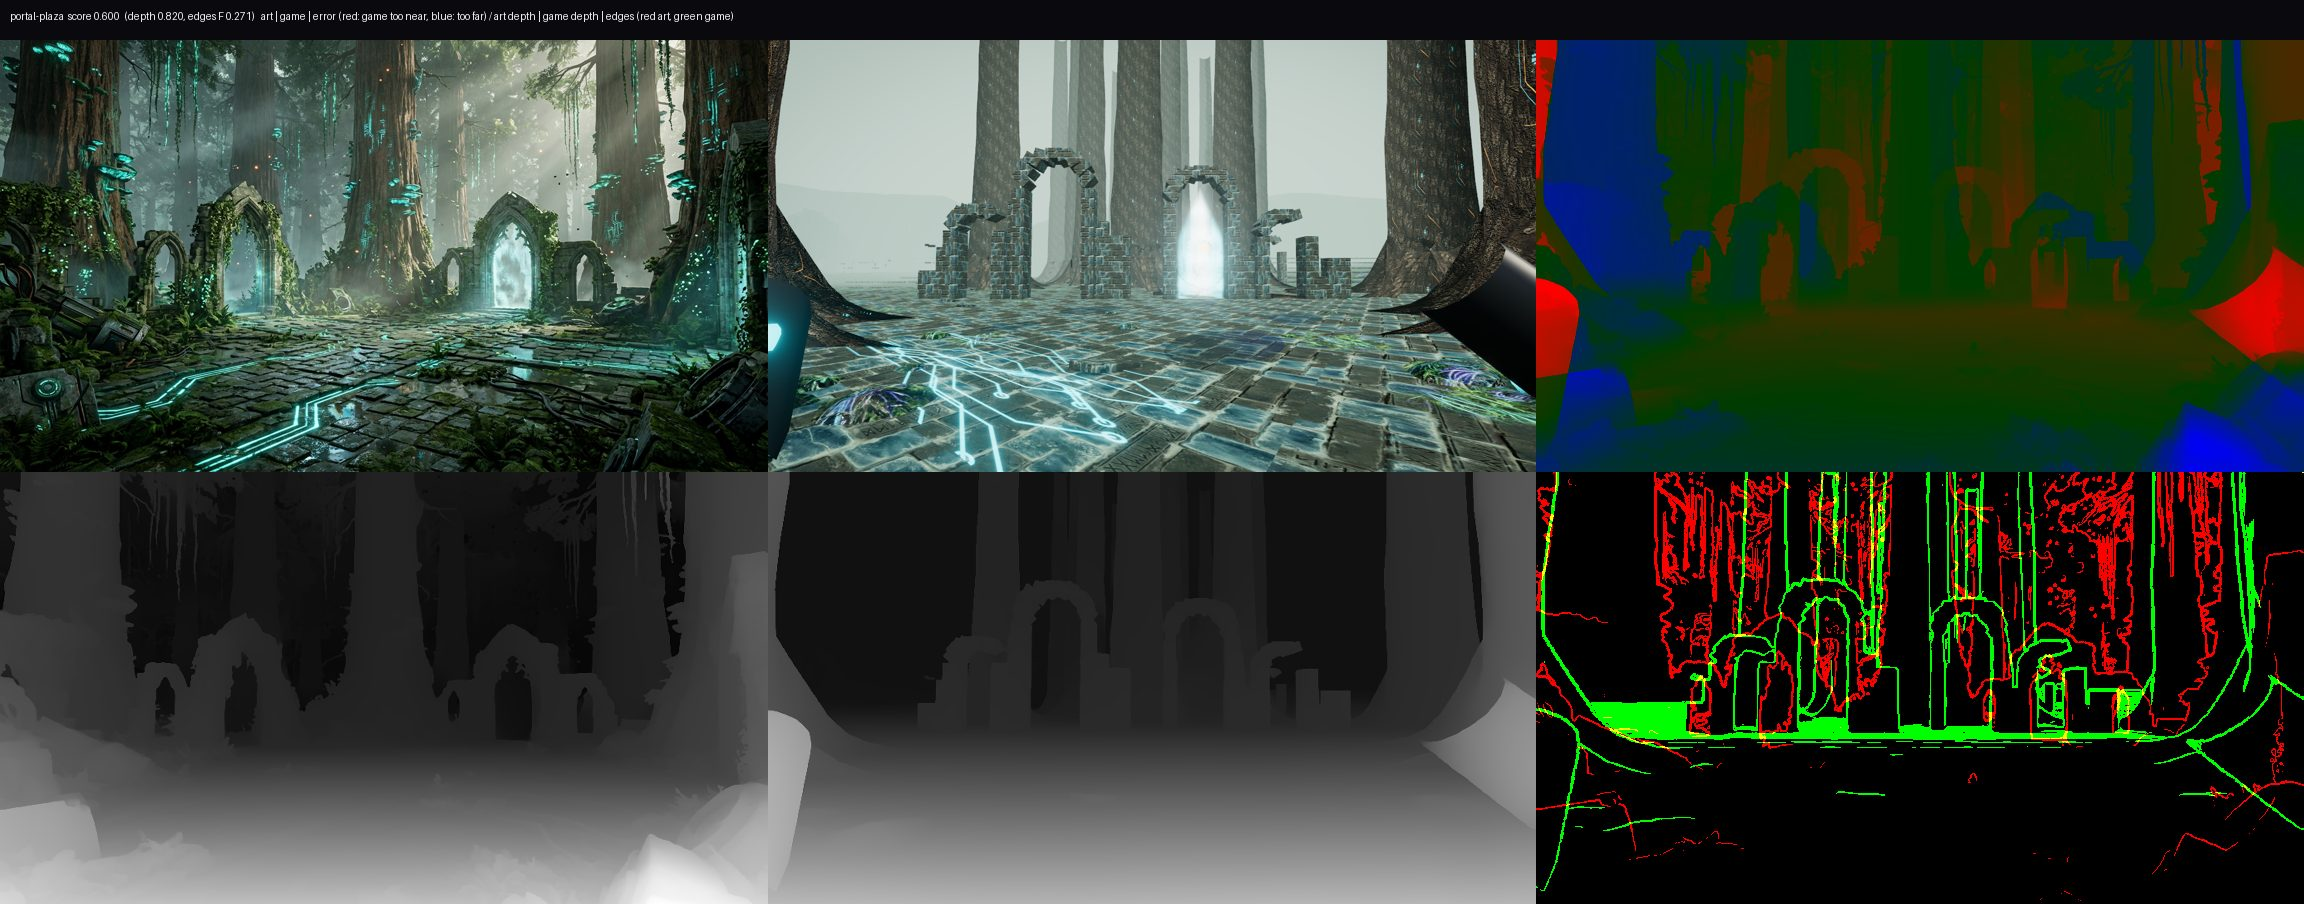
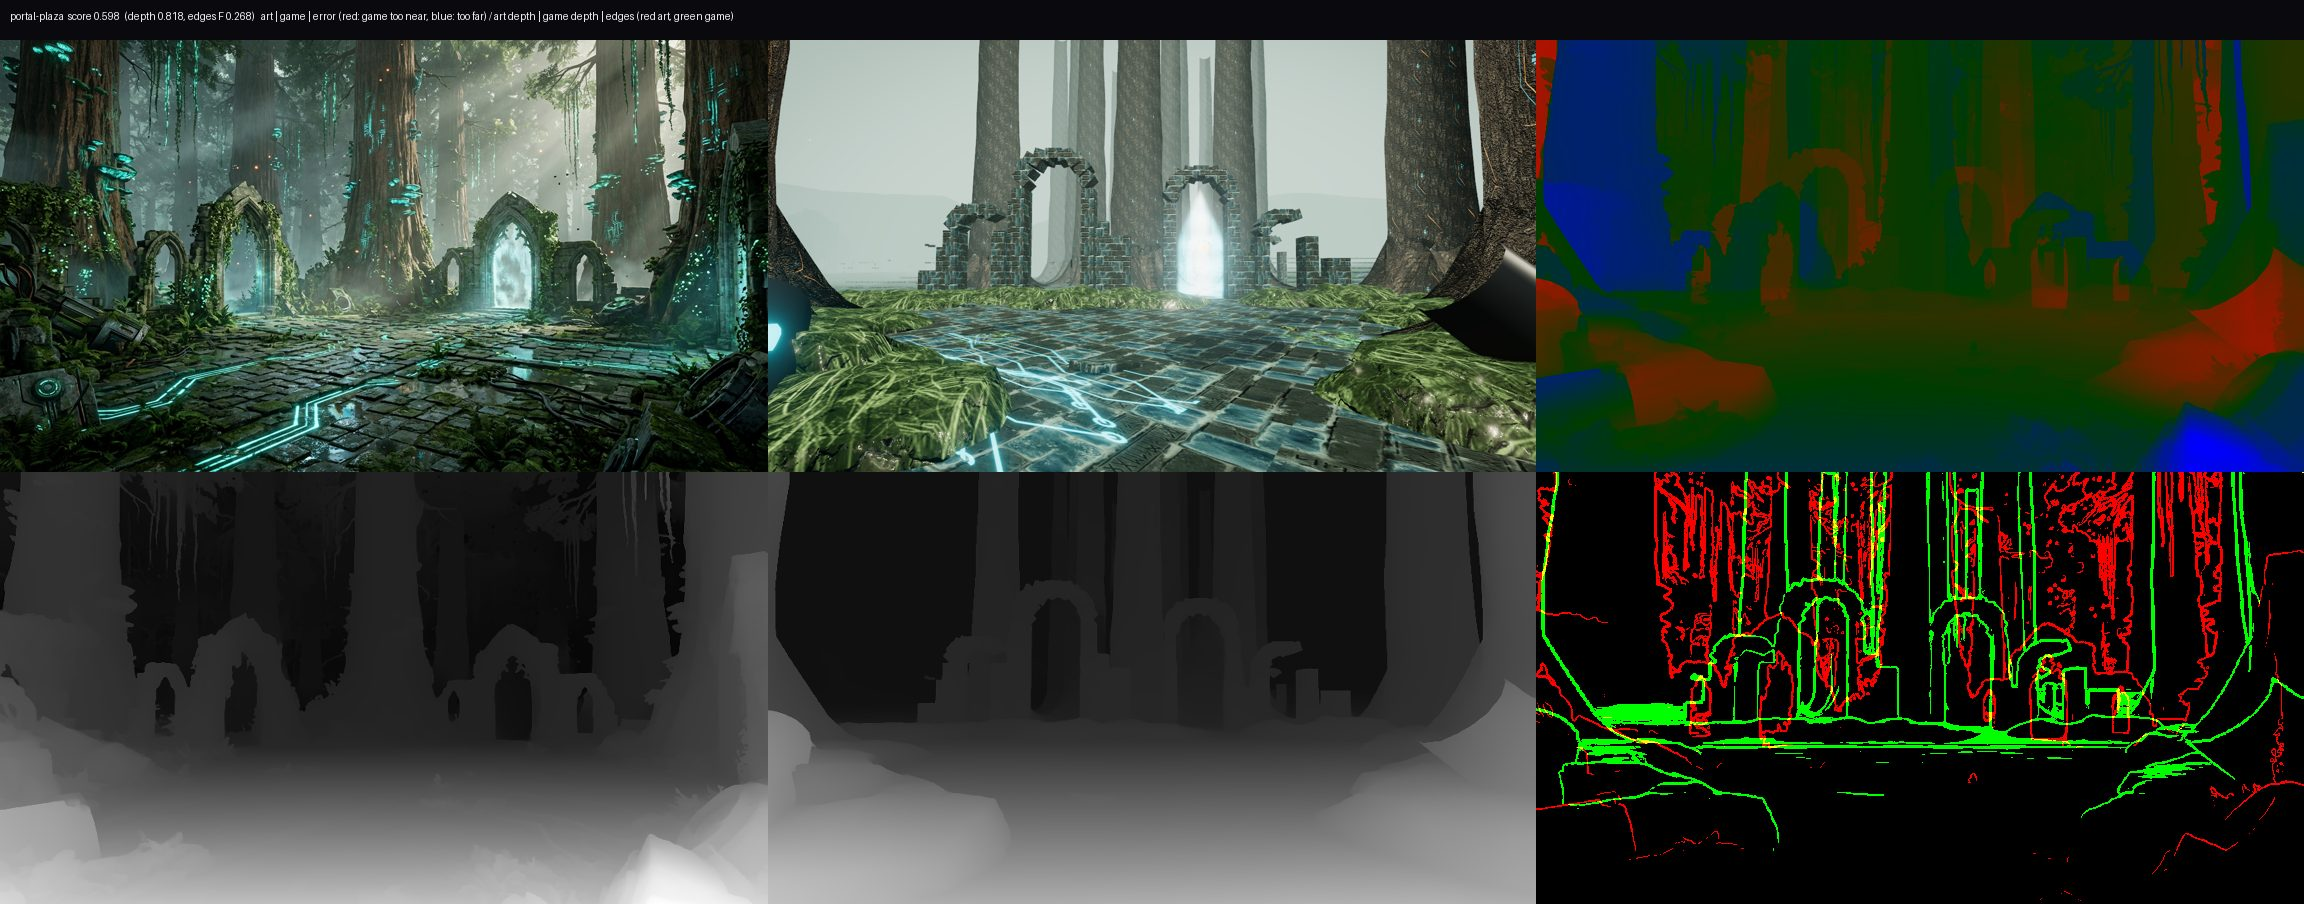
feat(rift-realm): green forest undergrowth, moss mounds, day lighting without night reflections
- vegetation: CF_UNDERGROWTH and CF_FOREST_FERN, green species from the environment shots (indices 7/8)
- world kit: mound() moss mounds, mossy stone in forest green, clutter uses the green species
- ?time=day: night environment map turned down (it tinted every leaf and stone violet/cyan)
- Portal Plaza: mounds and greenery in front of the ruins and along the frame edges; score 0.598, plants not
  yet visible from the shot camera (noted in the doc)

diff --git a/games/rift-realm/src/world/kit.ts b/games/rift-realm/src/world/kit.ts
@@ -31,16 +31,26 @@ export function makeKit(ctx: WildsCtx, terrain: WorldTerrain) {
   const sandbag = new THREE.MeshStandardNodeMaterial({ color: 0x8a7a58, roughness: 1 });
   const crate = new THREE.MeshStandardNodeMaterial({ color: 0x4a5236, roughness: 0.8, metalness: 0.2 });
   // forest rock: the rock sheet's relief in grey-green stone, moss over every upward face (no volcanic orange)
-  const mossRock = (() => {
+  const mossyStone = (cover: number, lo0: number) => {
     const src = mats.rock as THREE.MeshStandardNodeMaterial;
     const m = new THREE.MeshStandardNodeMaterial({ normalMap: src.normalMap, roughnessMap: src.roughnessMap, roughness: 0.95 });
     m.normalScale.set(1.3, 1.3);
     const rl = src.map ? tslTexture(src.map, uv()).rgb.dot(vec3(0.3, 0.55, 0.15)) : float(0.4);
-    const moss = tslTexture(art('moss_strand_albedo.jpg', true, true), positionWorld.xz.mul(0.35)).rgb.mul(vec3(0.5, 0.7, 0.42));
-    const up = smoothstep(float(0.35), float(0.75), normalWorld.y);
-    m.colorNode = mix(vec3(rl).mul(vec3(0.46, 0.52, 0.48)), moss, up.mul(0.85));
+    // the moss sheet's light and shade only, in forest green (its own colours are teal-violet strands)
+    const ml = tslTexture(art('moss_strand_albedo.jpg', true, true), positionWorld.xz.mul(0.35)).rgb.dot(vec3(0.3, 0.55, 0.15));
+    const moss = vec3(ml).mul(vec3(0.3, 0.46, 0.2)).add(vec3(0.01, 0.02, 0.005));
+    const up = smoothstep(float(lo0), float(lo0 + 0.4), normalWorld.y);
+    m.colorNode = mix(vec3(rl).mul(vec3(0.46, 0.52, 0.48)), moss, up.mul(cover));
     return m;
-  })();
+  };
+  const mossRock = mossyStone(0.85, 0.35);
+  const moundMat = mossyStone(1, -0.2);       // moss everywhere but the undersides
+  /** A moss mound: a low lumpy hump of earth and moss (the art's overgrown floor), rad across, h high. */
+  const mound = (x: number, z: number, rad: number, h: number, y = H(x, z), seed = 1) => {
+    const g = boulder(1, x * 0.71 + z * 1.3 + seed, lo ? 1 : 2);
+    kit.place(g, x, y - h * 0.3, z, seed * 1.7, 0, 0, rad, h * 1.3, rad * (0.75 + 0.5 * ((seed * 0.37) % 1)));
+    kit.add(moundMat, g, { tpm: 0.5, solid: h > 1.0 });
+  };
   /** Grass allowed back into a place's footprint (cracks in paving): [x, z, r, cover]. */
   const grassy: number[][] = [];
 
@@ -294,9 +304,9 @@ export function makeKit(ctx: WildsCtx, terrain: WorldTerrain) {
     }
     for (let k = 0; k < (o.plants ?? 30); k++) {
       const p = spot(); if (!p) continue;
-      ctx.plantSpots.push({ x: p[0], y: y - 0.02, z: p[1], yaw: rnd() * 6.28, species: rnd() < 0.7 ? 0 : 1, scale: 0.45 + rnd() * 0.5 });
+      ctx.plantSpots.push({ x: p[0], y: y - 0.02, z: p[1], yaw: rnd() * 6.28, species: rnd() < 0.7 ? 8 : 7, scale: 0.45 + rnd() * 0.5 });   // green forest fern / undergrowth
     }
-    grassy.push([x, z, r, 0.45]);
+    grassy.push([x, z, r, 0.12]);   // a few blades in the cracks; the green masses are the plants and mounds
   };
 
   /** Merge the trunk/trim geometry into the level (call once, after every place is built). */
@@ -308,7 +318,7 @@ export function makeKit(ctx: WildsCtx, terrain: WorldTerrain) {
   };
 
   return {
-    H, deck, bridge, link, clutter, grassy, mossRock, toward, hut, lamp, arch, ruinWall, pillar, paving, discPave, rocks, circuit, runeCircle, ring, screen, crystal, crates, sandbags, waterfall, finish,
+    H, deck, bridge, link, clutter, grassy, mossRock, mound, toward, hut, lamp, arch, ruinWall, pillar, paving, discPave, rocks, circuit, runeCircle, ring, screen, crystal, crates, sandbags, waterfall, finish,
     barkGeos, trimGeos, lights, clears,
     mats: { cyanGlow, amberGlow, violetGlow, goldGlow, crystalMat, metal, canvasMat, sandbag, crate, fallMat },
   };

diff --git a/games/rift-realm/src/world/places.ts b/games/rift-realm/src/world/places.ts
@@ -4,6 +4,7 @@ import * as THREE from 'three/webgpu';
 import { atan, color, float, mix, positionWorld, sin, smoothstep, time, uv, vec2 } from 'three/tsl';
 import type { TreeSpot } from '../../../../services/vegetation/trees/forest';
 import { CF_PLATFORM_OAK, CYBER_FOREST_TREES } from '../../../../services/vegetation/catalog/cyberForest';
+import { PLANT_FOREST_FERN, PLANT_UNDERGROWTH } from '../../../../services/vegetation/catalog/cyberForestPlants';
 import type { WildsCtx } from './registry';
 import type { WorldTerrain } from './terrain';
 import { type Kit, uniformBeat } from './kit';
@@ -608,8 +609,15 @@ export function buildPlaces(ctx: WildsCtx, T: WorldTerrain, K: Kit): PlaceOut {
       // vines down the arches, ferns and bushes along the walls and the sides
       for (let k = 0; k < 16; k++) { const q = at(30 + R() * 2, -16 + R() * 32); ctx.plantSpots.push({ x: q.x, y: py + 5 + R() * 4, z: q.z, yaw: R() * 6.28, species: 3, scale: 0.6 + R() * 0.6 }); }
       // the overgrowth at the foot of the ruins and down both sides: bush and fern masses 2–4 m high, as in the art
-      for (let k = 0; k < 46; k++) { const q = at(21 + R() * 9, -20 + R() * 40); if (Math.abs(q.x - g.x) + Math.abs(q.z - g.z) < 3) continue; plant(R() < 0.55 ? 1 : 0, q.x, q.z, 1.8 + R() * 1.4, py); }
-      for (let k = 0; k < 30; k++) { const sd = R() < 0.5 ? -1 : 1, q = at(2 + R() * 22, sd * (8 + R() * 9)); plant(R() < 0.5 ? 0 : 1, q.x, q.z, 1.6 + R() * 1.4, py); }
+      //   moss mounds and green leafy masses only IN FRONT of the wall line (d < WD), the portal's mouth kept open
+      const UG = PLANT_UNDERGROWTH, FF = PLANT_FOREST_FERN;
+      const greenery = (d: number, sx: number, rad: number, hh: number, n: number) => {
+        const q = at(d, sx); K.mound(q.x, q.z, rad, hh, py, d * 3 + sx);
+        for (let k = 0; k < n; k++) { const a = R() * 6.283, e = rad * (0.15 + R() * 0.75), px = q.x + Math.sin(a) * e, pz = q.z + Math.cos(a) * e; plant(R() < 0.6 ? UG : FF, px, pz, 1.7 + R() * 1.3, py + hh * (1 - (e / (rad * 1.05)) ** 2) * 0.95); }   // on the mound's surface
+      };
+      for (let sx = -17; sx <= 15; sx += 2.2) { if (sx > 1.5 && sx < 5.8) continue; greenery(WD - 2.2 - R() * 1.6, sx + (R() - 0.5), 2.0 + R() * 1.4, 1.1 + R() * 1.0, 5); }
+      for (let k = 0; k < 16; k++) { const sd = R() < 0.5 ? -1 : 1, d = 4 + R() * 16; greenery(d, sd * (d * 0.55 + 2 + R() * 4), 1.6 + R() * 1.4, 0.8 + R() * 1.0, 4); }   // along both edges of the frame
+      for (const [d, sx] of [[4.5, -3.8], [5, 4.4], [6.5, -5.5], [7, 6]] as const) greenery(d, sx, 1.6 + R() * 0.6, 0.9 + R() * 0.5, 5);   // the near corners
       // machinery wreck and rubble in the near corners (the art's half-buried tech, bottom left and right)
       for (const [d, sx, n] of [[4.6, -5.8, 1], [4.8, 6.2, 2]] as const) {
         const q = at(d, sx);

diff --git a/services/vegetation/catalog/cyberForestPlants.ts b/services/vegetation/catalog/cyberForestPlants.ts
@@ -75,4 +75,25 @@ export const CF_CARNIVORE: PlantSpecies = {
   provenance: { art: ['carnivore'] },
 };
 
-export const CYBER_FOREST_PLANTS = [CF_FERN, CF_BUSH, CF_GLOW_FLOWER, CF_VINE, CF_CRYSTAL_PLANT, CF_RESIN_STUMP, CF_CARNIVORE];
+/** Green forest undergrowth from the environment shots (Bioluminescent_cyber_forest_spawn, Neon_grid_forest_ruins…):
+ *  the dense leafy masses at the foot of ruin walls and trunks. Natural green, no glow; the cyber look stays in the glowcaps. */
+export const CF_UNDERGROWTH: PlantSpecies = {
+  kind: 'plant', id: 'cf-undergrowth', name: 'Forest undergrowth (broadleaf)', form: 'bush',
+  height: 1.6, spread: 1.4, count: 14, parts: 11, leaf: 0.34,
+  color: { stem: 0x2e2a1e, leaf: 0x3a6428, tip: 0x88aa4c, vein: 0x56763a },
+  wind: { sway: 0.45, flutter: 0.8 },
+  provenance: { art: ['Shooter/Nov 15 - 14_43/Bioluminescent_cyber_forest_spaw…_14e53bc1.jpg'] },
+};
+
+/** Green forest fern from the same shots: big arching fronds round the paving and the wreckage. */
+export const CF_FOREST_FERN: PlantSpecies = {
+  kind: 'plant', id: 'cf-forest-fern', name: 'Forest fern', form: 'fern',
+  height: 1.4, spread: 1.7, count: 12, parts: 18, leaf: 0.32,
+  color: { stem: 0x2a3420, leaf: 0x3c6828, tip: 0x80a848, vein: 0x4c7030 },
+  wind: { sway: 0.7, flutter: 0.8 },
+  provenance: { art: ['Shooter/Nov 15 - 14_43/Bioluminescent_cyber_forest_spaw…_14e53bc1.jpg'] },
+};
+
+export const CYBER_FOREST_PLANTS = [CF_FERN, CF_BUSH, CF_GLOW_FLOWER, CF_VINE, CF_CRYSTAL_PLANT, CF_RESIN_STUMP, CF_CARNIVORE, CF_UNDERGROWTH, CF_FOREST_FERN];
+/** Indices of the green forest species in CYBER_FOREST_PLANTS. */
+export const PLANT_UNDERGROWTH = 7, PLANT_FOREST_FERN = 8;

diff --git a/games/rift-realm/src/world/index.ts b/games/rift-realm/src/world/index.ts
@@ -199,6 +199,8 @@ function buildWilds(ctx: WildsCtx, terrain: WorldTerrain): WildsBuilt {
     const haze = color(0x9fb6ac);
     const sc = ctx.scene as unknown as { fogNode: unknown; backgroundNode: unknown };
     sc.fogNode = fog(haze, densityFogFactor(float(0.0105))); sc.backgroundNode = color(0xaec4ba);
+    // the night sky's environment map reflects violet and cyan off every leaf and stone; by day it only fills a little
+    (ctx.scene as unknown as { environmentIntensity: number }).environmentIntensity = 0.18;
     if (renderer) renderer.toneMappingExposure = 1.2;
   };
 

diff --git a/docs/rift-realm-open-world.md b/docs/rift-realm-open-world.md
@@ -146,6 +146,14 @@ clutter is too low and too blue-grey to change the depth or the silhouettes; the
 The art's floor reads by green moss mounds and big leafy masses. Next: a green, leafy undergrowth species sized like the
 art's (1–3 m mounds), mossy mounds as geometry (not decals), placed only in front of walls.
 
+**Green undergrowth + moss mounds (2026-11-22).** Two green forest species from the shots (`CF_UNDERGROWTH`, `CF_FOREST_FERN`,
+catalog indices 7/8), `kit.mound()` moss mounds, a mossy stone in forest green (the moss sheet's own colours are teal-violet
+strands), and by day the night sky's environment map is turned down (it was reflecting violet/cyan off every leaf and stone:
+the reason the plants looked like blue streaks). Portal Plaza: mounds line the floor in front of the walls and along both
+frame edges. Score unchanged at 0.598. Open issue: the leafy plants show up close (verified) but not from the shot camera
+22 m away even though 240 are drawn: next step is to find out why (LOD/culling or shading at range) before more dressing.
+The remaining gap is mostly the background (the art's dense trunks, vines and god rays vs open haze).
+
 ## Track 2 — Characters from video
 - Every clip comes from the character's own motion videos (services/mocap: capture → solveTake → clipToThree →
   retarget), never hand-keyed. Assassin, Archangel, Cyber-Assassin and the other combat videos sit in
